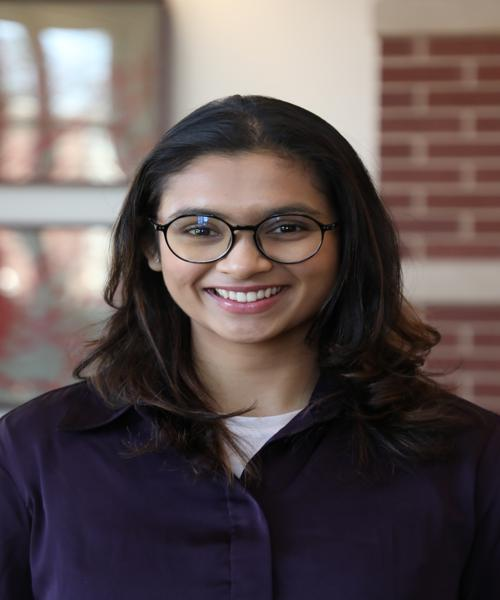
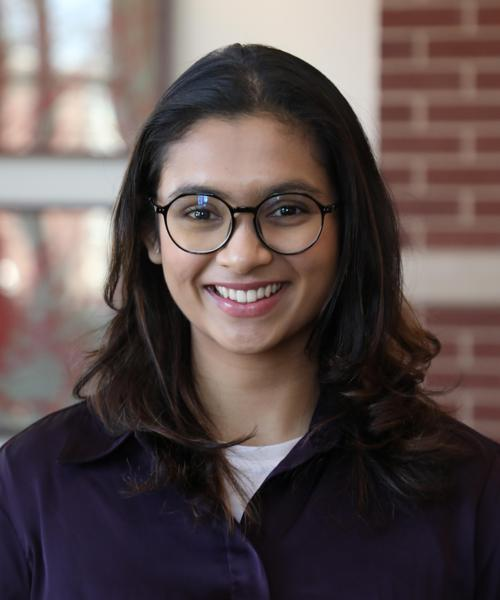
udpate lateset change

diff --git a/about.html b/about.html
@@ -98,12 +98,13 @@
                 <div class="col-lg-3 col-md-6 wow fadeInUp" data-wow-delay="0.1s">
                     <div class="team-item position-relative rounded overflow-hidden">
                         <div class="overflow-hidden">
-                            <img class="img-fluid" src="img/team-1.png" alt="">
+                            <img class="img-fluid" src="img/team-JorgeOrtiz.jpeg" alt="">
                         </div>
                         <div class="team-text bg-light text-center p-4">
                             <h5>Jorge Ortiz</h5>
                             <p class="text-danger">Faculty Advisor</p>
                             <div class="team-social text-center">
+                                <a class="btn btn-square" href="https://www.linkedin.com/in/jorgeortizphd" target="_blank"><i class="fab fa-linkedin-in"></i></a>
                                 <p class="email">jorge.ortiz@rutgers.edu</p>
                             </div>
                         </div>
@@ -119,8 +120,6 @@
                             <p class="text-danger">President</p>
                             <div class="team-social text-center">
                                 <a class="btn btn-square" href="https://linkedin.com/in/taqiya-ehsan" target="_blank"><i class="fab fa-linkedin-in"></i></a>
-                                <a class="btn btn-square" href="https://www.instagram.com/taqiya_ehsan" target="_blank"><i class="fab fa-instagram"></i></a>
-                                <a class="btn btn-square" href="https://www.facebook.com/taqiya.ehsan" target="_blank"><i class="fab fa-facebook-f"></i></a>
                                 <p class="email">te137@echo.rutgers.edu</p>
                             </div>
                         </div>
@@ -183,11 +182,10 @@
                         </div>
                         <div class="team-text bg-light text-center p-4">
                             <h5>Khizar Anjum</h5>
-                            <p class="text-danger">Role A</p>
+                            <p class="text-danger">Program Coordinator</p>
                             <div class="team-social text-center">
-                                <!-- <a class="btn btn-square" href=""><i class="fab fa-facebook-f"></i></a>
-                                <a class="btn btn-square" href=""><i class="fab fa-twitter"></i></a>
-                                <a class="btn btn-square" href=""><i class="fab fa-instagram"></i></a> -->
+                                <a class="btn btn-square" href="https://linkedin.com/in/khizar-anjum" target="_blank"><i class="fab fa-linkedin-in"></i></a>
+                                <p class="email">ma1629@rutgers.edu</p>
                             </div>
                         </div>
                     </div>
@@ -218,12 +216,11 @@
                         </div>
                         <div class="team-text bg-light text-center p-4">
                             <h5>Rushika Thandra</h5>
-                            <p class="text-danger">Role C</p>
-                            <div class="team-social text-center">
-                                <!-- <a class="btn btn-square" href=""><i class="fab fa-facebook-f"></i></a>
-                                <a class="btn btn-square" href=""><i class="fab fa-twitter"></i></a>
-                                <a class="btn btn-square" href=""><i class="fab fa-instagram"></i></a> -->
-                            </div>
+                            <p class="text-danger">Outreach Coordinator</p>
+                            <!-- <div class="team-social text-center">
+                                <a class="btn btn-square" href="https://linkedin.com/in/khizar-anjum" target="_blank"><i class="fab fa-linkedin-in"></i></a>
+                                <p class="email">ma1629@rutgers.edu</p>
+                            </div> -->
                         </div>
                     </div>
                 </div>
@@ -234,11 +231,10 @@
                         </div>
                         <div class="team-text bg-light text-center p-4">
                             <h5>Aayushi Kasera</h5>
-                            <p class="text-danger">Role D</p>
+                            <p class="text-danger">Member</p>
                             <div class="team-social text-center">
-                                <!-- <a class="btn btn-square" href=""><i class="fab fa-facebook-f"></i></a>
-                                <a class="btn btn-square" href=""><i class="fab fa-twitter"></i></a>
-                                <a class="btn btn-square" href=""><i class="fab fa-instagram"></i></a> -->
+                                <a class="btn btn-square" href="https://www.linkedin.com/in/aayushikasera/" target="_blank"><i class="fab fa-linkedin-in"></i></a>
+                                <p class="email">amk408@scarletmail.rutgers.edu</p>
                             </div>
                         </div>
                     </div>
@@ -250,11 +246,25 @@
                         </div>
                         <div class="team-text bg-light text-center p-4">
                             <h5>Muhammad Nabeel Tahir</h5>
-                            <p class="text-danger">Role E</p>
+                            <p class="text-danger">Member</p>
                             <div class="team-social text-center">
-                                <!-- <a class="btn btn-square" href=""><i class="fab fa-facebook-f"></i></a>
-                                <a class="btn btn-square" href=""><i class="fab fa-twitter"></i></a>
-                                <a class="btn btn-square" href=""><i class="fab fa-instagram"></i></a> -->
+                                <a class="btn btn-square" href="https://www.linkedin.com/in/muhammad-nabeel-tahir-005169bb" target="_blank"><i class="fab fa-linkedin-in"></i></a>
+                                <p class="email">nabeel.tahir@rutgers.edu</p>
+                            </div>
+                        </div>
+                    </div>
+                </div>
+                <div class="col-lg-3 col-md-6 wow fadeInUp" data-wow-delay="0.7s">
+                    <div class="team-item position-relative rounded overflow-hidden">
+                        <div class="overflow-hidden">
+                            <img class="img-fluid" src="img/team-1.png" alt="">
+                        </div>
+                        <div class="team-text bg-light text-center p-4">
+                            <h5>Aditya Kesari</h5>
+                            <p class="text-danger">Memeber</p>
+                            <div class="team-social text-center">
+                                <a class="btn btn-square" href="https://www.linkedin.com/in/adityakesari21/" target="_blank"><i class="fab fa-linkedin-in"></i></a>
+                                <p class="email">aak251@scarletmail.rutgers.edu</p>
                             </div>
                         </div>
                     </div>
@@ -275,7 +285,6 @@
                 <a class="text-light mx-3" href="contact.html">Contact</a>>
             </div>
             <div class="d-flex justify-content-center">
-                <a class="btn btn-outline-light btn-social rounded-circle mx-3" href="https://twitter.com/YourProfile"><i class="fab fa-twitter"></i></a>
                 <a class="btn btn-outline-light btn-social rounded-circle mx-3" href="https://facebook.com/YourProfile"><i class="fab fa-facebook-f"></i></a>
                 <a class="btn btn-outline-light btn-social rounded-circle mx-3" href="https://youtube.com/YourProfile"><i class="fab fa-youtube"></i></a>
                 <a class="btn btn-outline-light btn-social rounded-circle mx-3" href="https://linkedin.com/YourProfile"><i class="fab fa-linkedin-in"></i></a>

diff --git a/index.html b/index.html
@@ -75,13 +75,13 @@
             <div class="col-lg-6 wow fadeIn" data-wow-delay="0.5s">
                 <div class="owl-carousel header-carousel">
                     <div class="owl-carousel-item position-relative">
-                        <img class="img-fluid" src="img/server_room.jpg" alt="">
+                        <img class="img-fluid" src="img/pic_from_rutgersECE1.jpg" alt="">
                         <div class="owl-carousel-text">
                             <!-- <h1 class="display-1 text-white mb-0">Cardiology</h1> -->
                         </div>
                     </div>
                     <div class="owl-carousel-item position-relative">
-                        <img class="img-fluid" src="img/gpu.jpg" alt="">
+                        <img class="img-fluid" src="img/winlab.jpg" alt="">
                         <div class="owl-carousel-text">
                             <!-- <h1 class="display-1 text-white mb-0">Neurology</h1> -->
                         </div>
@@ -158,7 +158,6 @@
                 <a class="text-light mx-3" href="contact.html">Contact</a>
             </div>
             <div class="d-flex justify-content-center">
-                <a class="btn btn-outline-light btn-social rounded-circle mx-3" href="https://twitter.com/YourProfile"><i class="fab fa-twitter"></i></a>
                 <a class="btn btn-outline-light btn-social rounded-circle mx-3" href="https://facebook.com/YourProfile"><i class="fab fa-facebook-f"></i></a>
                 <a class="btn btn-outline-light btn-social rounded-circle mx-3" href="https://youtube.com/YourProfile"><i class="fab fa-youtube"></i></a>
                 <a class="btn btn-outline-light btn-social rounded-circle mx-3" href="https://linkedin.com/YourProfile"><i class="fab fa-linkedin-in"></i></a>

diff --git a/contact.html b/contact.html
@@ -79,7 +79,7 @@
                     <p>We would love to hear from you. Get in touch with us today!</p>
                     <div class="email-container">
                         <i class="bi bi-envelope"></i>
-                        <a href="mailto:abc@gmail.com" class="text-dark">abc@gmail.com</a>
+                        <a href="mailto:abc@gmail.com" class="text-dark">rutgersecegsa@gmail.com</a>
                     </div>
                 </div>
             </div>
@@ -96,7 +96,6 @@
                 <a class="text-light mx-3" href="contact.html">Contact</a>
             </div>
             <div class="d-flex justify-content-center">
-                <a class="btn btn-outline-light btn-social rounded-circle mx-3" href="https://twitter.com/YourProfile"><i class="fab fa-twitter"></i></a>
                 <a class="btn btn-outline-light btn-social rounded-circle mx-3" href="https://facebook.com/YourProfile"><i class="fab fa-facebook-f"></i></a>
                 <a class="btn btn-outline-light btn-social rounded-circle mx-3" href="https://youtube.com/YourProfile"><i class="fab fa-youtube"></i></a>
                 <a class="btn btn-outline-light btn-social rounded-circle mx-3" href="https://linkedin.com/YourProfile"><i class="fab fa-linkedin-in"></i></a>

diff --git a/corporate.html b/corporate.html
@@ -120,7 +120,6 @@
                 <a class="text-light mx-3" href="contact.html">Contact</a>
             </div>
             <div class="d-flex justify-content-center">
-                <a class="btn btn-outline-light btn-social rounded-circle mx-3" href="https://twitter.com/YourProfile"><i class="fab fa-twitter"></i></a>
                 <a class="btn btn-outline-light btn-social rounded-circle mx-3" href="https://facebook.com/YourProfile"><i class="fab fa-facebook-f"></i></a>
                 <a class="btn btn-outline-light btn-social rounded-circle mx-3" href="https://youtube.com/YourProfile"><i class="fab fa-youtube"></i></a>
                 <a class="btn btn-outline-light btn-social rounded-circle mx-3" href="https://linkedin.com/YourProfile"><i class="fab fa-linkedin-in"></i></a>

diff --git a/resize_img.py b/resize_img.py
@@ -1,5 +1,33 @@
 from PIL import Image
 
+
+def crop_image_to_ratio(input_path, output_path, width_ratio = 5, height_ratio = 6):
+    # Open the image
+    image = Image.open(input_path)
+    width, height = image.size
+    
+    # Calculate the new dimensions based on the specified ratio
+    if width / height > width_ratio / height_ratio:
+        # Image is too wide, adjust width
+        new_width = int(height * (width_ratio / height_ratio))
+        new_height = height
+    else:
+        # Image is too tall, adjust height
+        new_width = width
+        new_height = int(width * (height_ratio / width_ratio))
+    
+    # Calculate the cropping box (left, upper, right, lower)
+    left = (width - new_width) // 2
+    upper = (height - new_height) // 2
+    right = left + new_width
+    lower = upper + new_height
+    
+    # Crop the image
+    cropped_image = image.crop((left, upper, right, lower))
+    
+    # Save the cropped image
+    cropped_image.save(output_path)
+
 def resize_image(input_path, output_path, width=500, height=600):
     # Open an image file
     with Image.open(input_path) as img:
@@ -10,6 +38,7 @@ def resize_image(input_path, output_path, width=500, height=600):
         print(f"Image resized to {width}x{height} and saved as {output_path}")
 
 # Example usage:
-input_path = 'img/team-TaqiyaEhsan.jpg'  # Replace with your input image path
-output_path = 'img/team-TaqiyaEhsan.jpg'  # Replace with your desired output image path
-resize_image(input_path, output_path)
+input_path = 'img/winlab.jpg'  # Replace with your input image path
+output_path = 'img/winlab.jpg'  # Replace with your desired output image path
+crop_image_to_ratio(input_path, output_path, 1, 1)
+resize_image(input_path, input_path, 1000, 1000)
